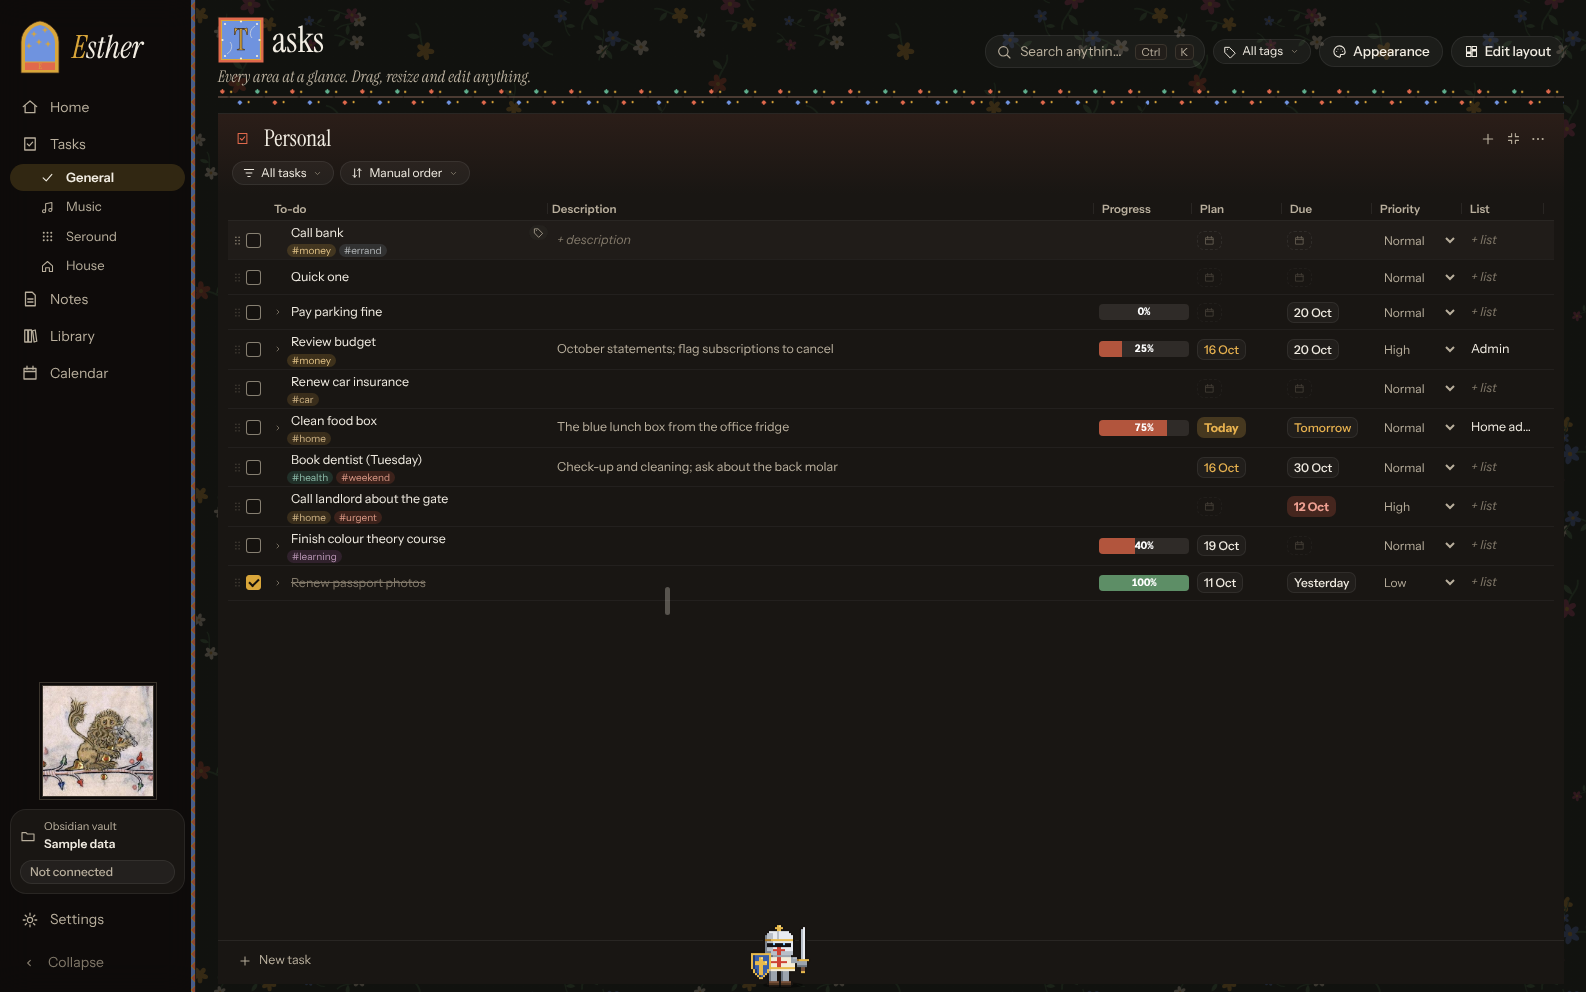
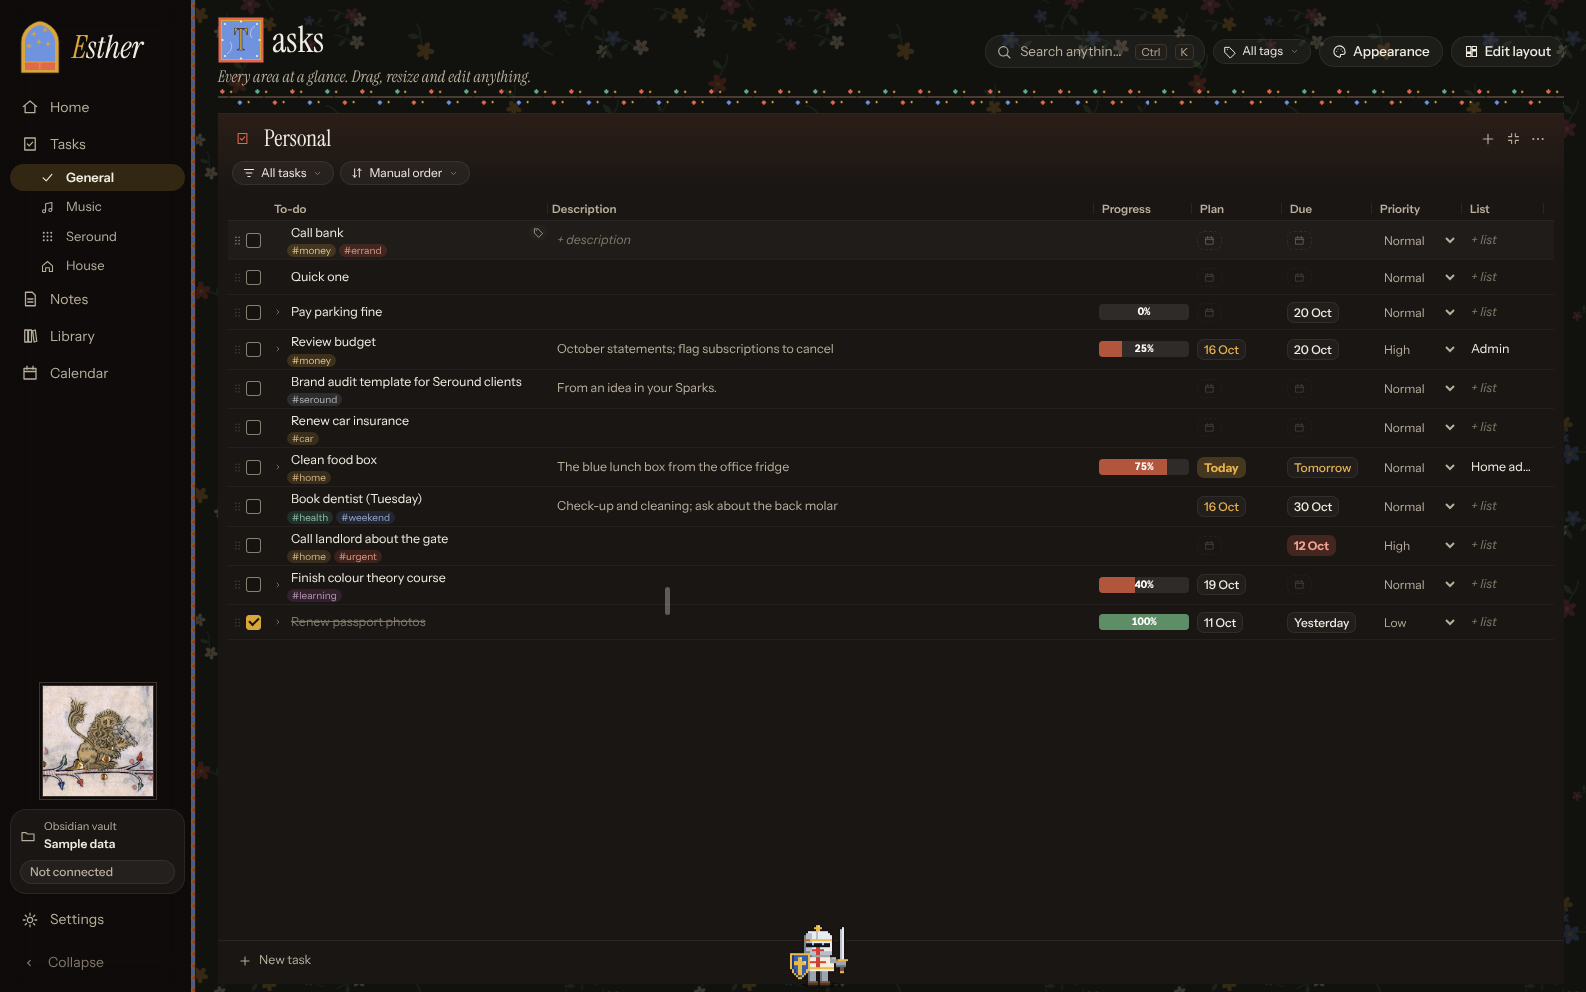
Sparks: ideas come back instead of piling up
Replaces the squeezed idea board on Home. One idea left alone longest (a week or more)
comes back each day to revisit: make it a task, keep it (rests three weeks) or shelve it.
Below, the newest sparks with their age; right-click for open, exploring or shelve.

Claude-Session: https://claude.ai/code/session_016WKLQPuGqaCrfQHNoqNZZi

diff --git a/frankk-app/src/components/Widgets.tsx b/frankk-app/src/components/Widgets.tsx
@@ -13,6 +13,9 @@ import { addDays, longToday, monthKey, monthName, parseISO, relLabel, weekdaySho
 import { beginOrder, canOpenHere } from '../lib/begin';
 import { detectKind, findJournal, parseJournal, KINDS } from '../lib/journal';
 import { useJournal } from './CommandBar';
+import { RecordDrawer } from './RecordDrawer';
+import { useContextMenu } from './ContextMenu';
+import { pickSparks, ideaAge } from '../lib/sparks';
 import { projectProgress, stageComplete } from '../lib/progress';
 import { recordsOf } from '../lib/records';
 import { renderMarkdown } from '../lib/markdown';
@@ -24,6 +27,7 @@ import type { AppData } from '../data/types';
 
 export const WIDGET_CATALOG: { kind: WidgetDef['kind']; name: string; blurb: string; icon: Parameters<typeof Icon>[0]['name']; size: { w: number; h: number }; config?: WidgetDef['config'] }[] = [
   { kind: 'begin', name: 'Begin here', blurb: 'What to start first, why, and a shortcut that opens it', icon: 'bolt', size: { w: 8, h: 7 } },
+  { kind: 'sparks', name: 'Sparks', blurb: 'Your newest ideas, one older idea to revisit each day, and a one-click way to act on them', icon: 'idea', size: { w: 8, h: 7 } },
   { kind: 'calendar', name: 'Calendar', blurb: 'The month, and what falls on the day you pick', icon: 'calendar', size: { w: 8, h: 12 } },
   { kind: 'journal', name: 'Today’s journal', blurb: 'What you wrote today: progress, context, ideas and journal lines', icon: 'note', size: { w: 8, h: 8 } },
   { kind: 'stat', name: 'Number', blurb: 'One big number: due today, overdue, bills, release progress…', icon: 'bolt', size: { w: 6, h: 4 }, config: { metric: 'open-tasks' } },
@@ -82,6 +86,7 @@ export function WidgetBody({ w }: { w: WidgetDef }) {
     case 'begin': return <BeginWidget />;
     case 'calendar': return <CalendarWidget />;
     case 'journal': return <JournalWidget />;
+    case 'sparks': return <SparksWidget />;
   }
 }
 
@@ -324,6 +329,63 @@ function JournalWidget() {
         onChange={(e) => setText(e.target.value)} onKeyDown={(e) => { if (e.key === 'Enter') { e.preventDefault(); add(); } else if (e.key === 'Escape') setText(''); }} />
       <span className="wj-hint">Enter writes it with the time · start with p: for progress, c: for context</span>
       {page && <button className="link-btn wj-open" onClick={() => go('notes', { noteId: page.id })}>Open today’s page</button>}
+    </div>
+  );
+}
+
+/* ---------- Sparks: ideas you come back to, not a board you file into ---------- */
+
+function SparksWidget() {
+  const { data, today, dispatch } = useStore();
+  const { go, say } = useUi();
+  const journal = useJournal();
+  const menu = useContextMenu();
+  const [open, setOpen] = useState<string | null>(null);
+  const { fresh, revisit, counts } = useMemo(() => pickSparks(data, today), [data, today]);
+  const space = (e: { props: Record<string, unknown> }) => String(e.props.space ?? '');
+  const toTask = (e: { id: string; title: string; props: Record<string, unknown> }) => {
+    const sp = space(e).toLowerCase();
+    dispatch({ type: 'task/add', title: e.title, area: 'general', extra: { tags: sp ? [sp] : [], mode: 'simple', notes: 'From an idea in your Sparks.' } });
+    dispatch({ type: 'record/set', typeId: 'idea', id: e.id, key: 'status', value: 'Doing' });
+    journal('task', `${e.title} (from an idea)`);
+    say(`“${e.title}” is now a task in General.`, true);
+  };
+  const shelve = (e: { id: string; title: string }) => { dispatch({ type: 'record/set', typeId: 'idea', id: e.id, key: 'status', value: 'Shelved' }); say(`Shelved “${e.title}”.`, true); };
+  const keep = (e: { id: string; title: string }) => { dispatch({ type: 'record/set', typeId: 'idea', id: e.id, key: 'revisited', value: today }); say(`Kept “${e.title}”. It will come back in a few weeks.`); };
+  const rowMenu = (ev: React.MouseEvent, e: { id: string; title: string; props: Record<string, unknown> }) => menu(ev, [
+    { label: 'Open', icon: 'external', onClick: () => setOpen(e.id) },
+    { label: 'Make it a task', icon: 'check', onClick: () => toTask(e) },
+    { label: 'Mark as exploring', icon: 'idea', onClick: () => dispatch({ type: 'record/set', typeId: 'idea', id: e.id, key: 'status', value: 'Exploring' }) },
+    { label: 'Shelve', icon: 'trash', danger: true, sep: true, onClick: () => shelve(e) },
+  ]);
+  const row = (e: (typeof fresh)[number]) => (
+    <li key={e.id} className="sp-row" onContextMenu={(ev) => rowMenu(ev, e)}>
+      <i className={`sp-dot sp-${space(e).toLowerCase() || 'none'}`} title={space(e) || 'No space'} />
+      <button className="w-item sp-title" onClick={() => setOpen(e.id)}>{e.title}</button>
+      <span className="sp-age">{ideaAge(e, today)}</span>
+      <span className="sp-acts">
+        <button className="icon-btn tiny" aria-label={`Make “${e.title}” a task`} title="Make it a task" onClick={() => toTask(e)}><Icon name="check" size={12} /></button>
+      </span>
+    </li>
+  );
+  return (
+    <div className="w-sparks">
+      {revisit && (
+        <div className="sp-revisit" onContextMenu={(ev) => rowMenu(ev, revisit)}>
+          <span className="sp-kicker">Revisit · {ideaAge(revisit, today)} old{space(revisit) ? ` · ${space(revisit)}` : ''}</span>
+          <button className="sp-big" onClick={() => setOpen(revisit.id)}>{revisit.title}</button>
+          <span className="sp-q">Still alive?</span>
+          <span className="sp-btns">
+            <button className="btn small primary" onClick={() => toTask(revisit)}>Make it a task</button>
+            <button className="btn small" onClick={() => keep(revisit)}>Keep</button>
+            <button className="btn small ghost" onClick={() => shelve(revisit)}>Shelve</button>
+          </span>
+        </div>
+      )}
+      {fresh.length > 0 ? <ul className="sp-list" aria-label="Newest sparks">{fresh.map(row)}</ul>
+        : !revisit && <p className="w-empty">No sparks yet. Type <code>idea:</code> in the bar above to keep one.</p>}
+      <footer className="sp-foot"><span>{counts.spark} spark{counts.spark === 1 ? '' : 's'} · {counts.exploring} exploring</span><button className="link-btn" onClick={() => go('library')}>Idea board</button></footer>
+      {open && <RecordDrawer typeId="idea" id={open} onClose={() => setOpen(null)} />}
     </div>
   );
 }

diff --git a/frankk-app/src/data/defaults.ts b/frankk-app/src/data/defaults.ts
@@ -93,6 +93,8 @@ export function defaultEntries(today: ISODate): Entry[] {
     i('e-lao-pack', 'Lao folk sample pack', { status: 'Exploring', space: 'Music', rating: 5, captured: addDays(today, -6) }, ['surftape']),
     i('e-merch', 'sundey sticker merch', { status: 'Spark', space: 'Seround', rating: 3, captured: addDays(today, -2) }, ['design']),
     i('e-studio', 'Treat the home studio walls', { status: 'Doing', space: 'Life', rating: 4, captured: addDays(today, -14) }, ['home']),
+    i('e-chant', 'Lao chant intro for the next single', { status: 'Spark', space: 'Music', captured: addDays(today, -21) }, ['surftape']),
+    i('e-audit', 'Brand audit template for Seround clients', { status: 'Spark', space: 'Seround', captured: addDays(today, -30) }, ['seround']),
   ];
 }
 
@@ -136,7 +138,7 @@ export function defaultViews(): ViewDef[] {
 }
 
 /** Bump to rebuild saved homes with a new default layout (backgrounds are kept). */
-export const HOME_REV = 4;
+export const HOME_REV = 5;
 
 export function defaultDashboard(): Dashboard {
   const W = (id: string, kind: Dashboard['widgets'][number]['kind'], title: string, config: Dashboard['widgets'][number]['config'] = {}, color?: string) => ({ id, kind, title, config, color });
@@ -150,13 +152,13 @@ export function defaultDashboard(): Dashboard {
       W('w-week', 'week', 'This week'),
       W('w-music', 'music', 'Music'),
       W('w-money', 'money', 'Money & bills'),
-      W('w-ideas', 'view', 'Ideas', { viewId: 'v-ideas' }),
+      W('w-sparks', 'sparks', 'Sparks', {}, '#d4a03c'),
     ],
     layout: [
       // three columns that end level, sized to what they hold; the calendar lives in the Matins header
       { i: 'w-begin', x: 0, y: 0, w: 8, h: 6 }, { i: 'w-journal', x: 0, y: 6, w: 8, h: 7 },
       { i: 'w-today', x: 8, y: 0, w: 8, h: 7 }, { i: 'w-money', x: 8, y: 7, w: 8, h: 6 },
-      { i: 'w-music', x: 16, y: 0, w: 8, h: 6 }, { i: 'w-ideas', x: 16, y: 6, w: 8, h: 7 },
+      { i: 'w-music', x: 16, y: 0, w: 8, h: 6 }, { i: 'w-sparks', x: 16, y: 6, w: 8, h: 7 },
       { i: 'w-week', x: 0, y: 13, w: 24, h: 4 },
     ],
   };

diff --git a/frankk-app/src/styles.css b/frankk-app/src/styles.css
@@ -1938,3 +1938,20 @@ html.overlay-scrollbars *::-webkit-scrollbar { display: none !important; width: 
 .matins { overflow: visible; }
 @media (max-width: 1100px) { .homepage > .matins { grid-template-columns: 140px minmax(0, 1fr); } .mt-cal { display: none; } }
 .homepage > .matins { position: relative; z-index: 30; }
+
+/* ── Sparks: newest ideas, one to revisit, and a quick way to act ── */
+.w-sparks { display: grid; gap: 8px; align-content: start; height: 100%; grid-template-rows: auto auto 1fr; }
+.sp-revisit { display: grid; gap: 4px; padding: 10px 12px; border-radius: var(--radius-sm); background: color-mix(in srgb, #d4a03c 10%, transparent); }
+.sp-kicker { font: 600 10.5px var(--font-body); letter-spacing: .08em; text-transform: uppercase; color: var(--muted); }
+.sp-big { text-align: left; font: 500 18px/1.25 var(--font-display); color: var(--text); }
+.sp-q { font: italic 13px var(--font-serif); color: var(--muted); }
+.sp-btns { display: flex; flex-wrap: wrap; gap: 6px; margin-top: 2px; }
+.sp-list { margin: 0; padding: 0; list-style: none; display: grid; gap: 1px; }
+.sp-row { display: grid; grid-template-columns: 10px minmax(0, 1fr) auto 24px; align-items: center; gap: 8px; min-height: 28px; padding: 0 2px; border-radius: var(--radius-sm); }
+.sp-row:hover { background: color-mix(in srgb, var(--text) 5%, transparent); }
+.sp-title { overflow: hidden; text-overflow: ellipsis; white-space: nowrap; text-align: left; font-size: 13.5px; }
+.sp-age { font-size: 11.5px; color: var(--muted); font-variant-numeric: tabular-nums; }
+.sp-acts { opacity: 0; transition: opacity .12s; } .sp-row:hover .sp-acts, .sp-row:focus-within .sp-acts { opacity: 1; }
+.sp-dot { width: 8px; height: 8px; border-radius: 50%; background: var(--faint, #888); }
+.sp-dot.sp-music { background: var(--music); } .sp-dot.sp-seround { background: var(--seround); } .sp-dot.sp-design { background: #b44a6e; } .sp-dot.sp-life { background: var(--house); }
+.sp-foot { align-self: end; display: flex; justify-content: space-between; align-items: center; font-size: 11.5px; color: var(--muted); }

diff --git a/frankk-app/src/lib/sparks.ts b/frankk-app/src/lib/sparks.ts
@@ -1,0 +1,34 @@
+import { diffDays, type ISODate } from './dates';
+import type { AppData } from '../data/types';
+import type { Entry } from '../data/schema';
+
+const capturedOn = (e: Entry) => String(e.props.captured ?? e.created.slice(0, 10));
+const live = (e: Entry) => e.typeId === 'idea' && !e.archived && !['Shelved', 'Doing', 'Done'].includes(String(e.props.status ?? 'Spark'));
+
+/** "today", "3d", "2w", "4mo": how long ago an idea was caught. */
+export function ideaAge(e: Entry, today: ISODate) {
+  const d = Math.max(0, diffDays(today, capturedOn(e)));
+  return d === 0 ? 'today' : d < 14 ? `${d}d` : d < 60 ? `${Math.round(d / 7)}w` : `${Math.round(d / 30)}mo`;
+}
+
+/**
+ * Ideas come back instead of piling up. Revisit: the idea left alone longest (at least a week since it was caught
+ * or last kept). Fresh: the newest sparks. Kept ideas rest three weeks before they can come back.
+ */
+export function pickSparks(data: AppData, today: ISODate) {
+  const ideas = data.entries.filter(live);
+  const touched = (e: Entry) => String(e.props.revisited ?? capturedOn(e));
+  const due = ideas
+    .filter((e) => diffDays(today, capturedOn(e)) >= 7 && (!e.props.revisited || diffDays(today, String(e.props.revisited)) >= 21))
+    .sort((a, b) => touched(a).localeCompare(touched(b)));
+  const revisit = due[0];
+  const fresh = ideas
+    .filter((e) => e.id !== revisit?.id && String(e.props.status ?? 'Spark') === 'Spark')
+    .sort((a, b) => capturedOn(b).localeCompare(capturedOn(a)) || b.created.localeCompare(a.created))
+    .slice(0, 4);
+  const counts = {
+    spark: ideas.filter((e) => String(e.props.status ?? 'Spark') === 'Spark').length,
+    exploring: ideas.filter((e) => e.props.status === 'Exploring').length,
+  };
+  return { fresh, revisit, counts };
+}

diff --git a/frankk-app/src/home.test.ts b/frankk-app/src/home.test.ts
@@ -42,3 +42,29 @@ describe('the bar and the journal', () => {
     ]);
   });
 });
+
+import { pickSparks, ideaAge } from './lib/sparks';
+
+describe('sparks', () => {
+  it('brings back the idea left alone longest (at least a week old), and lists the newest sparks', () => {
+    const d = buildFixtures(TODAY);
+    const { revisit, fresh } = pickSparks(d, TODAY);
+    expect(revisit?.id).toBe('e-audit'); // caught 30 days ago, never revisited
+    expect(fresh.map((e) => e.id)).not.toContain('e-audit');
+    expect(fresh[0].id).toBe('e-merch'); // the newest spark first
+  });
+  it('a kept idea rests three weeks; shelved and in-progress ideas leave', () => {
+    const d = buildFixtures(TODAY);
+    d.entries = d.entries.map((e) => (e.id === 'e-audit' ? { ...e, props: { ...e.props, revisited: TODAY } } : e.id === 'e-chant' ? { ...e, props: { ...e.props, status: 'Shelved' } } : e));
+    const { revisit, fresh } = pickSparks(d, TODAY);
+    expect(revisit?.id).not.toBe('e-audit');
+    expect([revisit?.id, ...fresh.map((e) => e.id)]).not.toContain('e-chant');
+    expect(d.entries.find((e) => e.id === 'e-studio')).toBeTruthy();
+    expect([revisit?.id, ...fresh.map((e) => e.id)]).not.toContain('e-studio'); // already Doing
+  });
+  it('says how old an idea is in short words', () => {
+    const d = buildFixtures(TODAY);
+    expect(ideaAge(d.entries.find((e) => e.id === 'e-merch')!, TODAY)).toBe('2d');
+    expect(ideaAge(d.entries.find((e) => e.id === 'e-chant')!, TODAY)).toBe('3w');
+  });
+});

diff --git a/frankk-app/src/data/schema.ts b/frankk-app/src/data/schema.ts
@@ -84,7 +84,7 @@ export interface ViewDef {
   widths?: Record<string, number>;
 }
 
-export type WidgetKind = 'stat' | 'today' | 'week' | 'music' | 'money' | 'view' | 'note' | 'image' | 'capture' | 'notes-recent' | 'begin' | 'calendar' | 'journal';
+export type WidgetKind = 'stat' | 'today' | 'week' | 'music' | 'money' | 'view' | 'note' | 'image' | 'capture' | 'notes-recent' | 'begin' | 'calendar' | 'journal' | 'sparks';
 export type StatMetric = 'due-today' | 'overdue' | 'open-tasks' | 'bills-unpaid' | 'release-progress' | 'done-week' | 'notes-count' | 'records-count';
 
 export interface WidgetDef {
